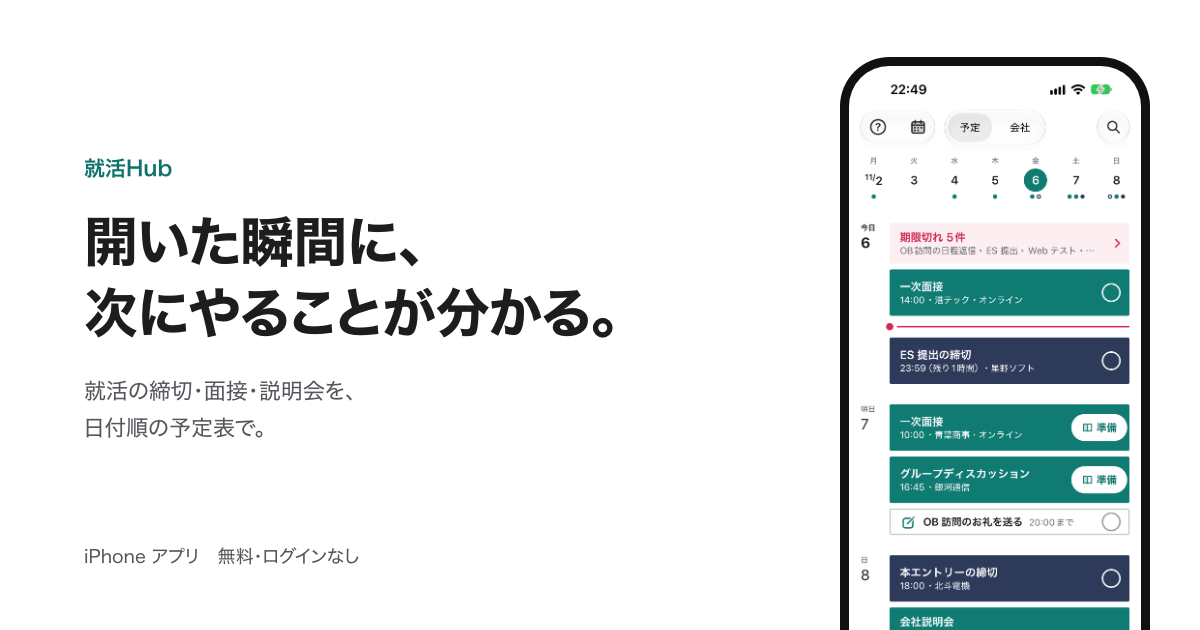
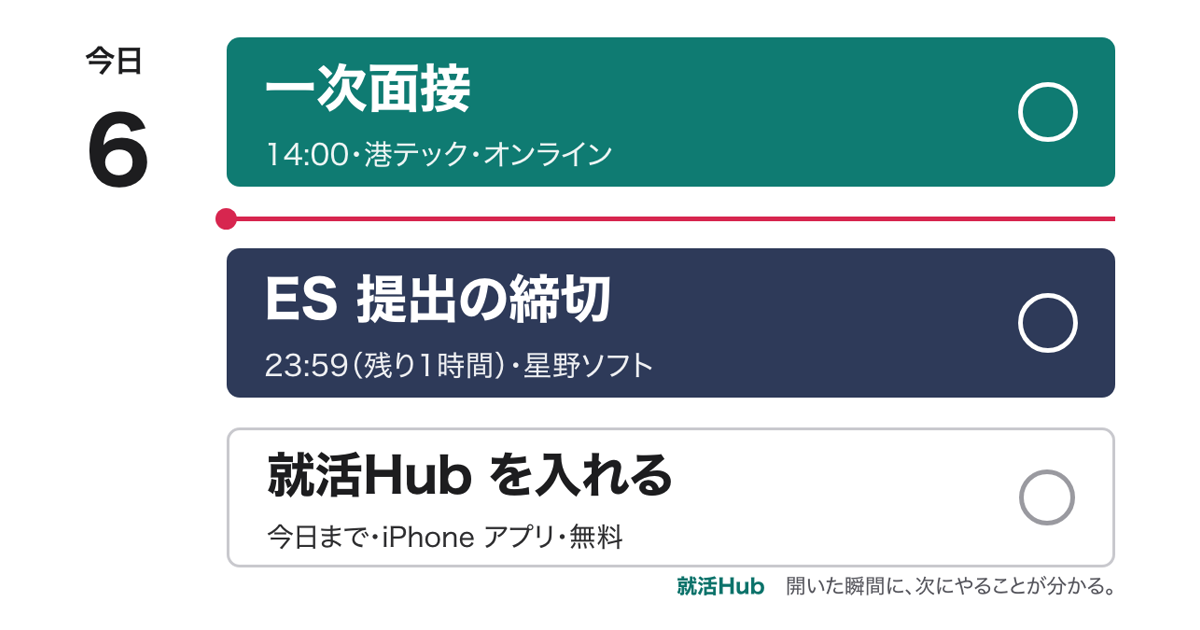
iPhone版の紹介ページを、予定表をポスターにした見た目に作り直す
最初の画面は予定表の行（最後の行「就活Hub を入れる」が入手ボタン）。
散らかり→予定表・残りの時間・会社のページ・質問の棚・メモとサイトを並べる。
動きは最初の画面だけで、動きを減らす設定では止める。

diff --git a/public/ios/index.html b/public/ios/index.html
@@ -13,90 +13,145 @@
 <meta property="og:url" content="https://shukatsu-dashboard-sable.vercel.app/ios/">
 <meta property="og:image" content="https://shukatsu-dashboard-sable.vercel.app/ios/img/og.png">
 <meta name="twitter:card" content="summary_large_image">
-<!-- 画面はすべて iPhone 版の実物の撮影（見本データ・架空の会社名）。アプリの画面を変えたら撮り直す -->
+<!--
+  画面の画像は iPhone 版の実物の撮影（見本データ・架空の会社名）。アプリの画面を変えたら撮り直す。
+  予定の行（.row）はアプリの予定表を大きくした見せ方。色は App/ThemeColor.swift（teal）と App/Theme.swift（deadline・red）の値。
+  動きは最初の画面だけ：行が日付順に降りる・今の赤い線が走る。動きを減らす設定では止める。
+-->
 <style>
-:root{--ink:#1d1d1f;--sub:#55555c;--teal:#0f7b72;--teal-text:#0d736b;--line:#e3e3e8;--soft:#f5f5f7}
+:root{--ink:#1d1d1f;--sub:#55555c;--teal:#0f7b72;--teal-text:#0d736b;--navy:#2e3a59;--red:#d7264f;--line:#e3e3e8;--soft:#f5f5f7}
 *{box-sizing:border-box;margin:0;padding:0}
 html{color-scheme:light;-webkit-text-size-adjust:100%}
 body{background:#fff;color:var(--ink);font:17px/1.8 -apple-system,BlinkMacSystemFont,"Hiragino Sans","Hiragino Kaku Gothic ProN",sans-serif;font-feature-settings:"palt";-webkit-font-smoothing:antialiased}
-main{max-width:440px;margin:0 auto;padding:0 20px}
-section{padding:56px 0;border-top:1px solid var(--line)}
-section:first-child{border-top:0;padding-top:48px}
+main{max-width:480px;margin:0 auto;padding:0 20px;overflow:hidden}
+section{padding:64px 0}
 .k{font-size:15px;font-weight:600;color:var(--teal-text)}
-h1{font-size:34px;line-height:1.4;font-weight:700;margin-top:10px;letter-spacing:-.01em}
-h2{font-size:26px;line-height:1.45;font-weight:700;margin-top:8px}
+h1,h2{font-weight:800;letter-spacing:-.02em;line-height:1.35}
+h1{font-size:30px}
+h2{font-size:30px;margin-top:8px}
+h2 b,h1 b{color:var(--teal-text)}
 p{margin-top:14px;color:var(--sub)}
-.phone{margin:32px auto 0;width:min(280px,78%);border-radius:44px;background:#111;padding:9px}
+
+/* 予定表の行（アプリの予定表を大きくした見せ方） */
+.agenda{display:grid;grid-template-columns:56px 1fr;column-gap:12px;margin-top:28px}
+.date{font-weight:700;font-size:20px;line-height:1;padding-top:6px}  /* 日付の数字は置かない（開いた日と食い違うため） */
+.rows{display:grid;gap:12px}
+.row{border-radius:12px;color:#fff;display:flex;align-items:center;padding:16px 18px;text-decoration:none}
+.row .tt{font-weight:700;font-size:20px;line-height:1.35}
+.row .ss{font-size:14px;opacity:.92;margin-top:2px}
+.row .ring{margin-left:auto;width:30px;height:30px;border:3px solid currentColor;border-radius:50%;flex:none}
+.teal{background:var(--teal)} .navy{background:var(--navy)}
+.task{background:#fff;color:var(--ink);border:2px solid var(--teal)}
+.task .ring{color:var(--teal)}
+.task .tt{color:var(--teal-text)}
+.now{position:relative;height:3px;background:var(--red);margin:2px 0 2px 6px;transform-origin:left}
+.now:before{content:"";position:absolute;left:-7px;top:-5px;width:13px;height:13px;border-radius:50%;background:var(--red)}
+@media (prefers-reduced-motion:no-preference){
+  .drop{animation:drop .5s cubic-bezier(.3,.35,.25,1) both}
+  .now{animation:sweep .8s cubic-bezier(.3,.35,.25,1) 1.3s both}
+  @keyframes drop{from{opacity:0;transform:translateY(-24px)}to{opacity:1;transform:none}}
+  @keyframes sweep{from{transform:scaleX(0)}to{transform:scaleX(1)}}
+}
+.lead{margin-top:28px;font-size:15px}
+.lead b{color:var(--teal-text)}
+
+/* 散らかり */
+.scatter{position:relative;height:310px;margin-top:24px}
+.bit{position:absolute;font-size:14px;padding:9px 13px;border-radius:9px;white-space:nowrap;color:var(--sub)}
+.mail{background:#fff;border:1.5px solid #d4d4d9} .memo{background:#fff6c9} .cal{background:#eef0f5}
+.arrow{text-align:center;font-size:36px;font-weight:700;color:var(--teal-text);line-height:1;margin:8px 0}
+
+/* 残り1時間 */
+.big{display:flex;align-items:flex-end;color:var(--navy);font-weight:800;line-height:1;letter-spacing:-.04em;margin-top:28px}
+.big .a{font-size:44px;margin-bottom:14px}
+.big .b{font-size:170px;margin:0 6px -8px}
+.big .c{font-size:54px;margin-bottom:10px}
+.s{margin-top:22px;font-weight:600;font-size:18px;color:var(--ink)}
+
+/* 端末 */
+.phone{margin:32px auto 0;width:min(280px,76%);border-radius:44px;background:#111;padding:9px}
 .phone img{display:block;width:100%;height:auto;border-radius:36px}
-.pair{display:flex;gap:12px;margin-top:32px}
+.pair{display:flex;gap:12px;margin-top:32px;align-items:flex-start}
 .pair .phone{margin:0;width:50%;border-radius:30px;padding:6px}
 .pair .phone img{border-radius:25px}
-.cta{display:block;margin-top:28px;padding:15px 20px;border-radius:999px;background:var(--teal);color:#fff;text-align:center;font-weight:600;text-decoration:none}
-.note{font-size:14px;margin-top:10px;text-align:center}
-ul.pain{list-style:none;margin-top:20px}
-ul.pain li{padding:14px 0;border-top:1px solid var(--line)}
-ul.pain li:first-child{border-top:0}
-ul.pain b{display:block;font-weight:600;color:var(--ink)}
-ul.pain span{display:block;color:var(--sub);font-size:16px;margin-top:2px}
+.pair .phone:last-child{margin-top:28px}
+.chips{display:flex;flex-wrap:wrap;gap:8px;margin-top:18px}
+.chip{font-size:14px;font-weight:600;color:var(--ink);background:var(--soft);border-radius:999px;padding:5px 12px}
+
 .grid{display:grid;grid-template-columns:1fr 1fr;gap:12px;margin-top:24px}
 .grid div{background:var(--soft);border-radius:12px;padding:16px}
 .grid b{display:block;font-size:16px}
 .grid span{display:block;font-size:14px;color:var(--sub);margin-top:4px;line-height:1.6}
-footer{max-width:440px;margin:0 auto;padding:32px 20px 48px;border-top:1px solid var(--line);font-size:14px;color:var(--sub)}
+.note{font-size:14px;margin-top:12px;text-align:center}
+footer{max-width:480px;margin:0 auto;padding:32px 20px 48px;border-top:1px solid var(--line);font-size:14px;color:var(--sub)}
 footer a{color:var(--teal-text);margin-right:20px}
 </style>
 </head>
 <body>
 <main>
+
 <section>
   <div class="k">就活Hub　iPhone アプリ</div>
   <h1>開いた瞬間に、<br>次にやることが分かる。</h1>
-  <p>就活の締切・面接・説明会を、日付順の予定表で見るアプリです。</p>
-  <!-- 公開後に App Store の URL を入れる -->
-  <a class="cta" href="#appstore">App Store で入手</a>
-  <p class="note">無料・ログインなし・iOS 26 以上</p>
-  <div class="phone"><img src="img/01_home.jpg" width="598" height="1300" alt="予定表の画面。今日と明日の面接と締切が日付順に並んでいる"></div>
+  <div class="agenda" aria-label="予定表の例">
+    <div class="date">今日</div>
+    <div class="rows">
+      <div class="row teal drop" style="animation-delay:.2s"><div><div class="tt">一次面接</div><div class="ss">14:00・港テック・オンライン</div></div><span class="ring"></span></div>
+      <div class="now" aria-hidden="true"></div>
+      <div class="row navy drop" style="animation-delay:.5s"><div><div class="tt">ES 提出の締切</div><div class="ss">23:59（残り1時間）・星野ソフト</div></div><span class="ring"></span></div>
+      <!-- 公開後に App Store の URL を入れる -->
+      <a class="row task drop" style="animation-delay:.8s" href="#appstore"><div><div class="tt">就活Hub を入れる</div><div class="ss">今日まで・App Store・無料</div></div><span class="ring"></span></a>
+    </div>
+  </div>
+  <p class="lead">就活の締切・面接・説明会を、<b>日付順の予定表</b>で。<br>無料・ログインなし・iOS 26 以上</p>
 </section>
 
 <section>
-  <h2>こんな時に</h2>
-  <ul class="pain">
-    <li><b>締切がメールとマイページに散らばっている</b><span>予定表に、締切・面接・説明会がまとめて並びます。</span></li>
-    <li><b>どの会社がどこまで進んだか分からない</b><span>会社ごとのページに、選考の流れが線で並びます。</span></li>
-    <li><b>面接の反省を次に生かせない</b><span>振り返りに残した「次に直すこと」が、次の準備の画面に出ます。</span></li>
-    <li><b>過ぎた締切に気づかない</b><span>まだ済んでいない締切は、予定表の一番上に出ます。</span></li>
-  </ul>
+  <h2>散らばった予定を、<br><b>1つの予定表</b>に。</h2>
+  <div class="scatter" aria-hidden="true">
+    <div class="bit mail" style="left:0;top:8px;transform:rotate(-4deg)">件名：一次面接のご案内（11/7 10:00）</div>
+    <div class="bit memo" style="right:4px;top:66px;transform:rotate(6deg)">ES 23:59 まで？</div>
+    <div class="bit memo" style="left:10px;top:112px;transform:rotate(3deg)">マイページの ID どこ…</div>
+    <div class="bit cal" style="right:10px;top:160px;transform:rotate(-5deg)">説明会 19:00 渋谷</div>
+    <div class="bit mail" style="left:0;top:212px;transform:rotate(2deg)">件名：【適性検査】受検期限のお知らせ</div>
+    <div class="bit memo" style="right:20px;top:262px;transform:rotate(-3deg)">OB にお礼のメール</div>
+  </div>
+  <div class="arrow" aria-hidden="true">↓</div>
+  <div class="phone"><img src="img/01_home.jpg" width="598" height="1300" alt="予定表の画面。今日と明日の面接と締切が日付順に並んでいる" loading="lazy"></div>
+  <p>面接や説明会は緑、締切は紺で並びます。過ぎた締切は、一番上に赤い1行で出ます。</p>
 </section>
 
 <section>
-  <div class="k">予定表</div>
-  <h2>今日と明日の予定が、<br>上から並びます。</h2>
-  <p>面接や説明会など出向く予定は緑、締切は紺で出ます。締切は右の ○ を押すと済みにできます。左上のカレンダーから、月の予定も開けます。</p>
-  <div class="phone"><img src="img/06_month.jpg" width="598" height="1300" alt="月のカレンダーと、選んだ日の予定" loading="lazy"></div>
+  <div class="k">締切</div>
+  <h2>締切が近いと、<br>残りの時間が出る。</h2>
+  <div class="big" role="img" aria-label="残り1時間"><span class="a">残り</span><span class="b">1</span><span class="c">時間</span></div>
+  <p class="s">ES 提出の締切　23:59・星野ソフト</p>
+  <p>締切まで24時間を切ると、予定表に残りの時間が出ます。締切は右の ○ を押すと済みにできます。</p>
 </section>
 
 <section>
   <div class="k">会社のページ</div>
-  <h2>選考の流れと、<br>次の日時が1枚に。</h2>
-  <p>いちばん上に次の面接の日時と参加リンク、その下に ES 提出から最終面接までの流れが並びます。</p>
-  <div class="phone"><img src="img/11_company.jpg" width="598" height="1300" alt="会社のページ。次の一次面接と、選考の流れ" loading="lazy"></div>
+  <h2>会社ごとに、<br>選考の流れと次の予定。</h2>
+  <div class="chips"><span class="chip">1タップで参加リンク</span><span class="chip">1タップでマイページ</span><span class="chip">ES・企業研究</span></div>
+  <div class="phone"><img src="img/18_company_today.jpg" width="598" height="1300" alt="会社のページ。次の一次面接と参加リンクを開くボタン、選考の流れ" loading="lazy"></div>
+  <p>いちばん上に次の予定と「参加リンクを開く」、その下に ES 提出から最終面接までの流れが並びます。</p>
 </section>
 
 <section>
-  <div class="k">振り返りと準備</div>
-  <h2>面接の後に残すと、<br>次の準備に出ます。</h2>
-  <p>面接が終わったら、手応えと「次に直すこと」を残せます。次の面接の前に開く準備の画面に、その内容が出ます。</p>
+  <div class="k">質問の棚</div>
+  <h2>聞かれた質問を、<br>会社をまたいでためる。</h2>
+  <div class="phone"><img src="img/27_question.jpg" width="598" height="1300" alt="質問「挫折した経験」に、2社分の答えが並んでいる" loading="lazy"></div>
+  <p>1つの質問に、会社ごとの答えが並びます。面接の後に残した「次に直すこと」は、次の面接の準備の画面に出ます。</p>
+</section>
+
+<section>
+  <div class="k">メモとサイト</div>
+  <h2>メモも、<br>マイページの ID も。</h2>
   <div class="pair">
-    <div class="phone"><img src="img/18_company_today.jpg" width="598" height="1300" alt="会社のページの振り返りを追加するボタン" loading="lazy"></div>
-    <div class="phone"><img src="img/30_prep.jpg" width="598" height="1300" alt="面接の準備の画面" loading="lazy"></div>
+    <div class="phone"><img src="img/08_notes.jpg" width="598" height="1300" alt="メモの一覧" loading="lazy"></div>
+    <div class="phone"><img src="img/09_sites.jpg" width="598" height="1300" alt="各社のマイページと ID の一覧" loading="lazy"></div>
   </div>
-</section>
-
-<section>
-  <div class="k">予定の追加</div>
-  <h2>募集ページから、<br>メールから。</h2>
-  <p>募集ページを Safari から共有すると、会社名と日程を読み取ります。面接の案内メールは、貼り付けると日時と参加リンクを読み取ります。</p>
-  <div class="phone"><img src="img/05_add.jpg" width="598" height="1300" alt="追加のメニュー。選考の予定・タスク・イベント・会社" loading="lazy"></div>
+  <p>企業研究や自己分析のメモと、各社のマイページを1か所に。マイページは1タップで開けます。</p>
 </section>
 
 <section>
@@ -110,8 +165,13 @@ footer a{color:var(--teal-text);margin-right:20px}
 </section>
 
 <section>
-  <h2>就活の予定を、<br>1つの予定表に。</h2>
-  <a class="cta" href="#appstore">App Store で入手</a>
+  <h2>今日やることに、<br>1つ足してください。</h2>
+  <div class="agenda">
+    <div class="date">今日</div>
+    <div class="rows">
+      <a class="row task" href="#appstore"><div><div class="tt">就活Hub を入れる</div><div class="ss">今日まで・App Store・無料</div></div><span class="ring"></span></a>
+    </div>
+  </div>
   <p class="note">無料・ログインなし・iOS 26 以上</p>
 </section>
 </main>
